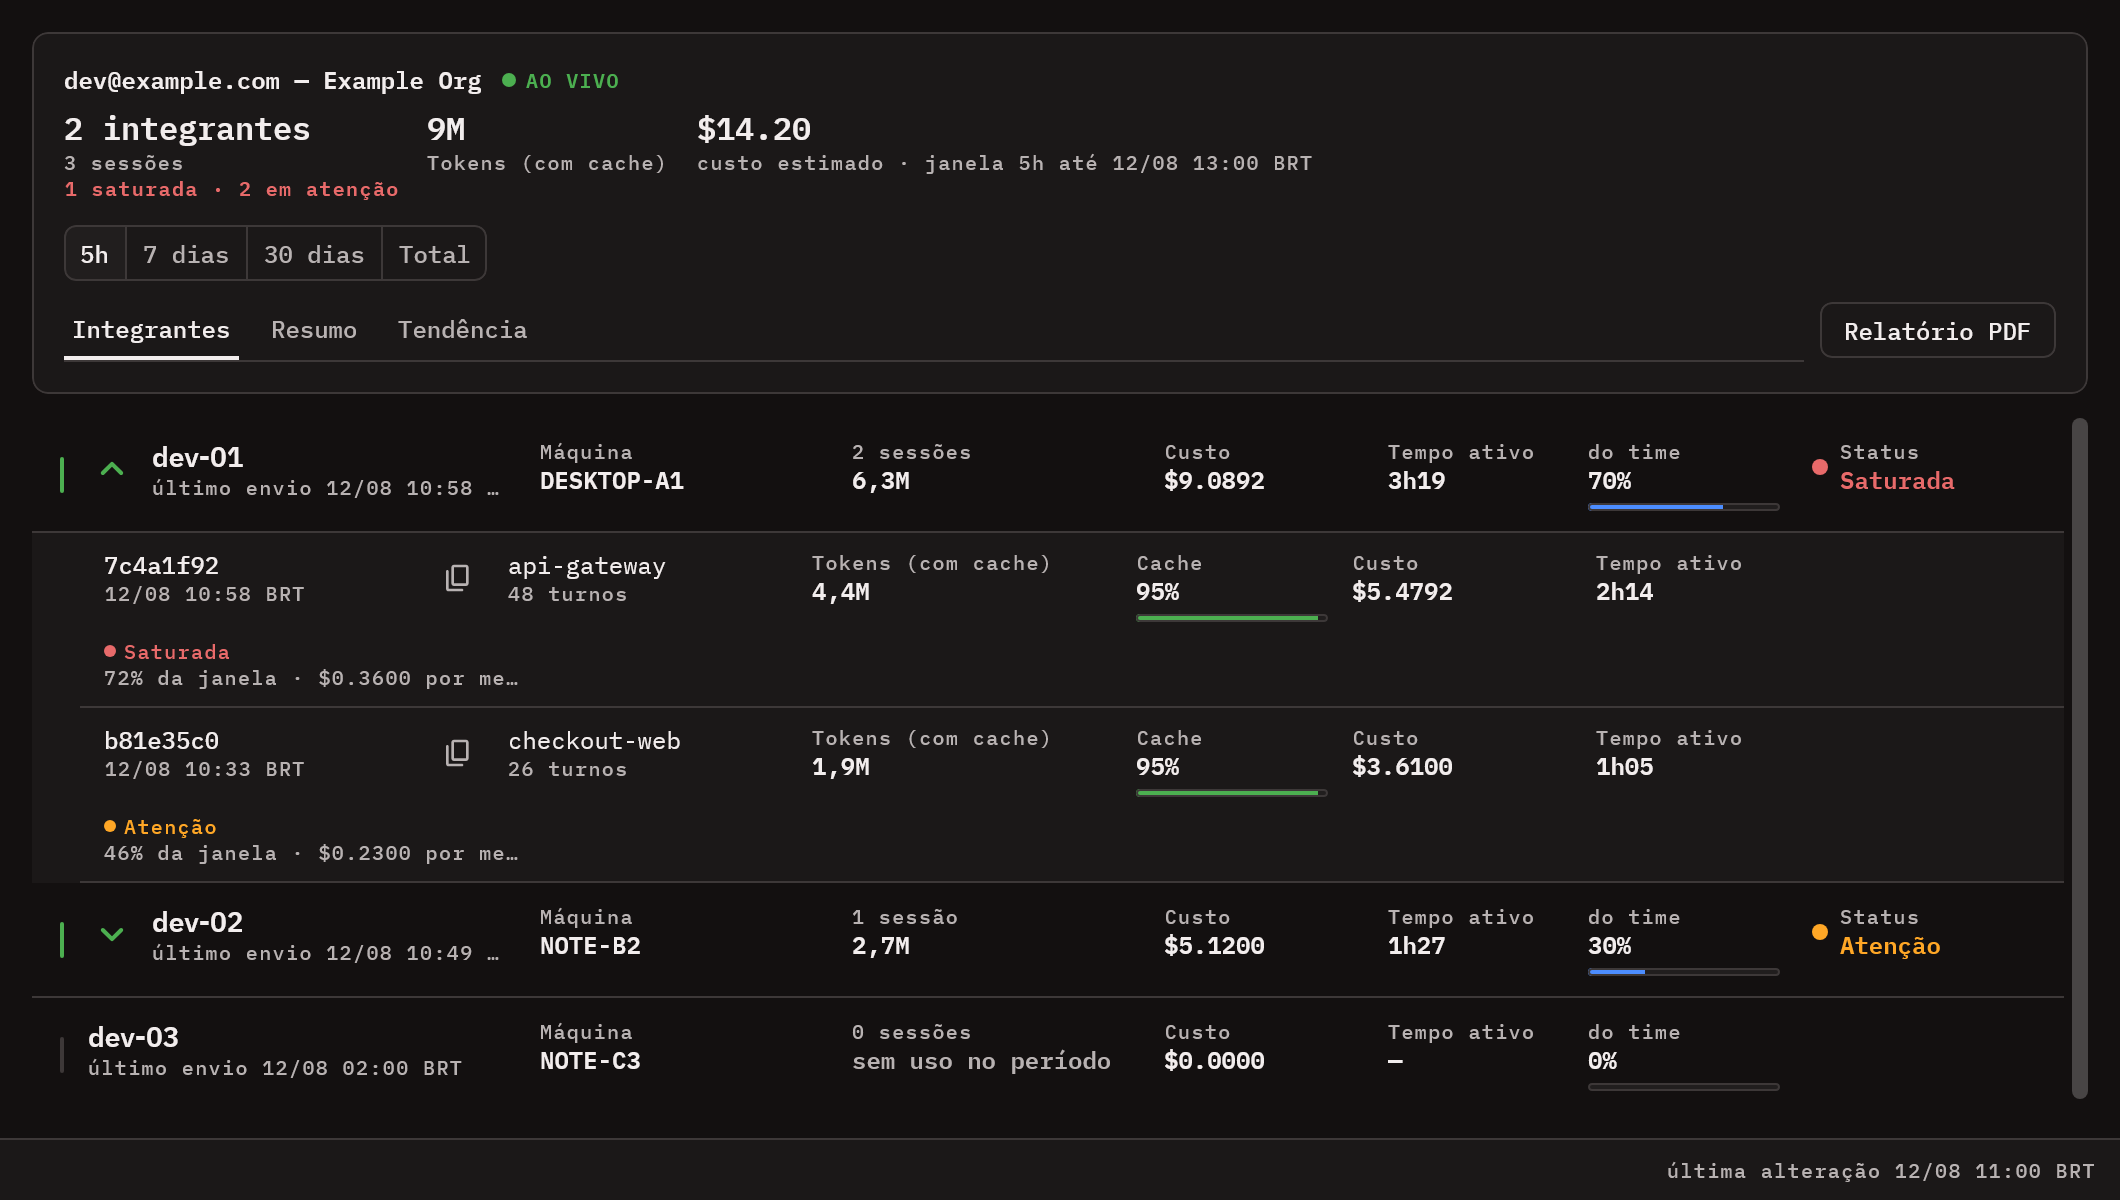
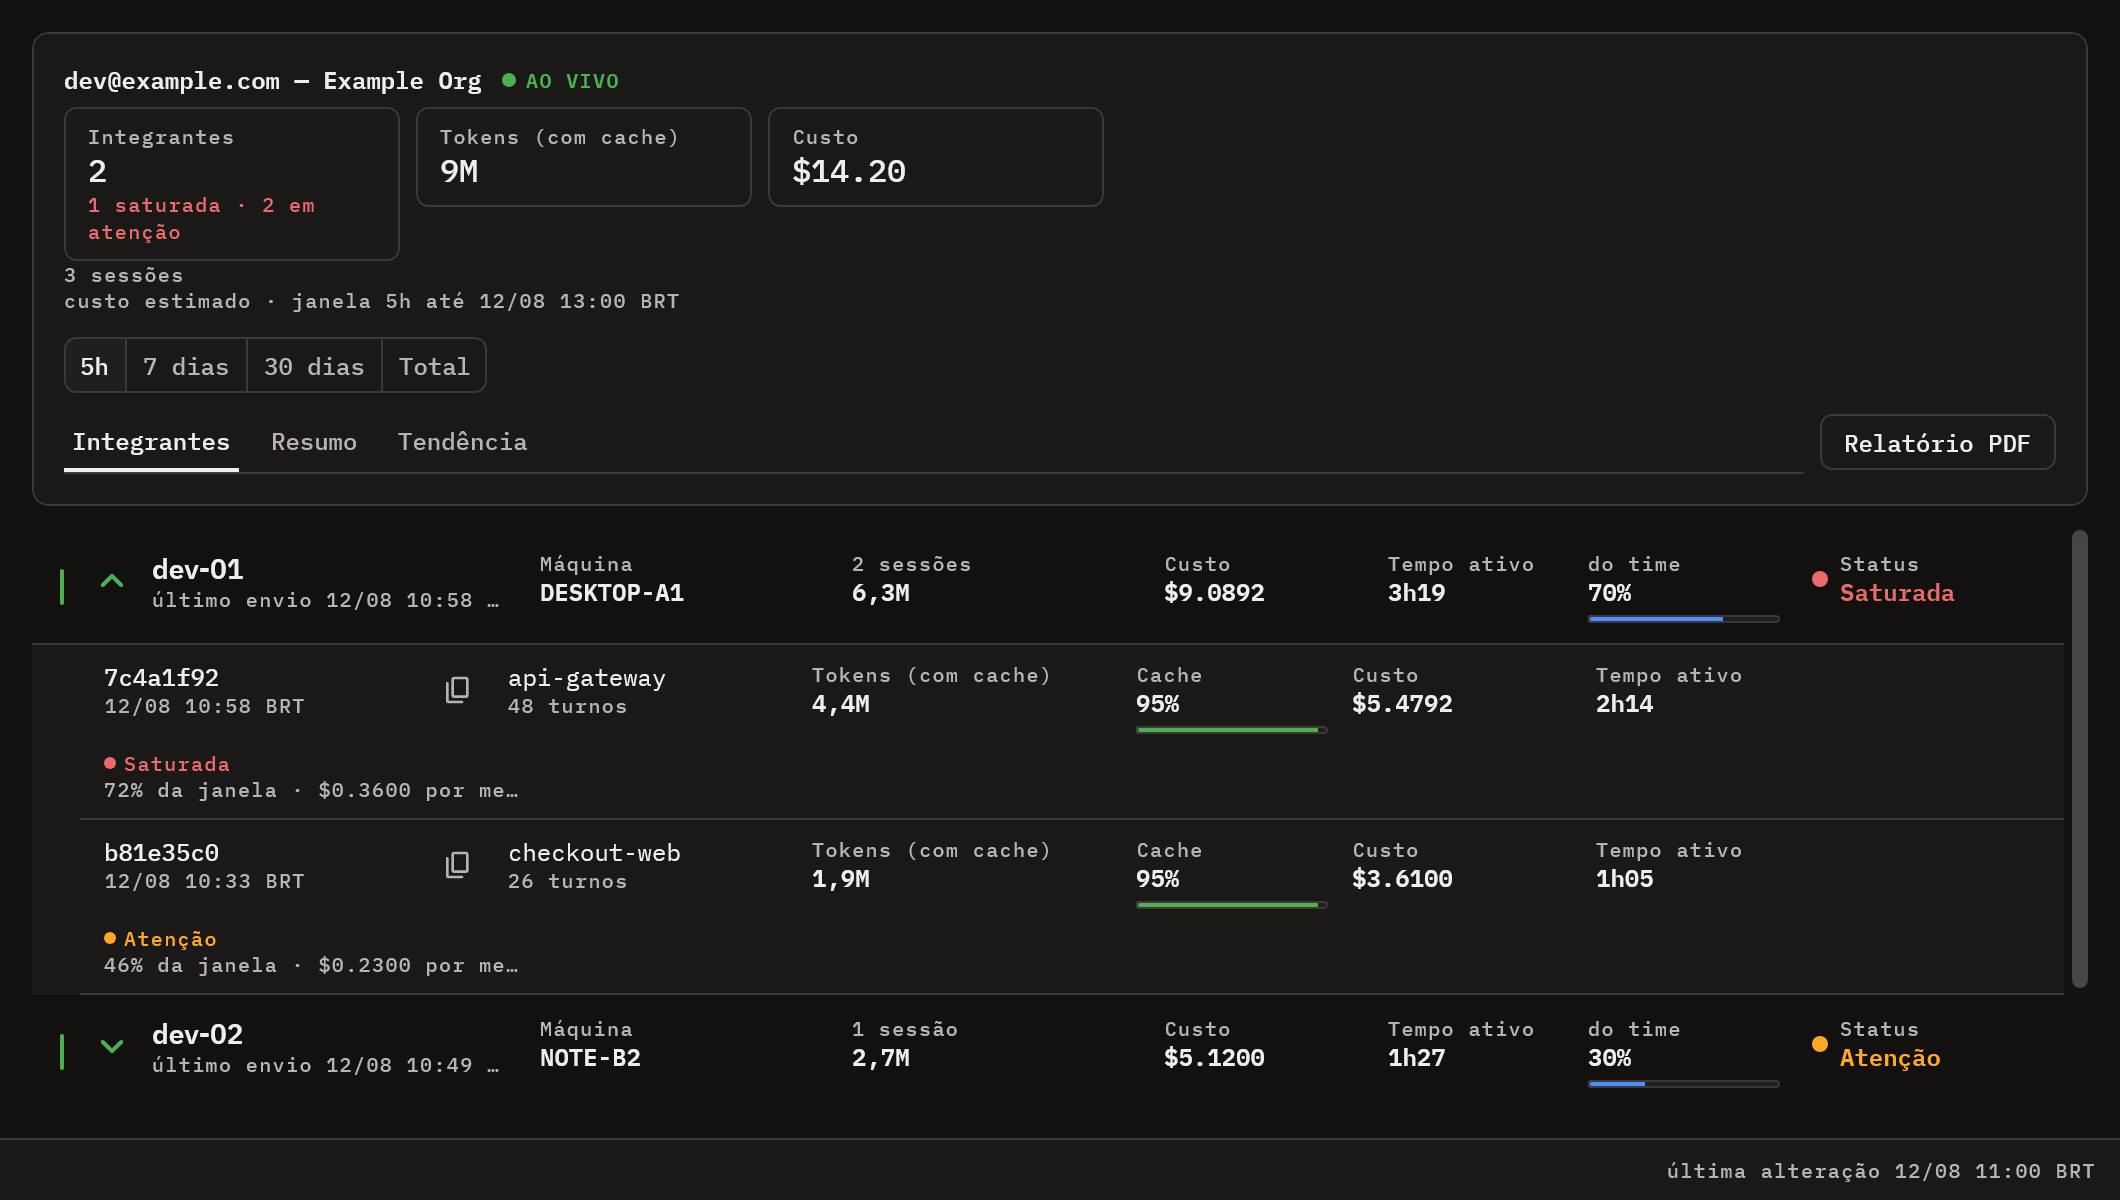
refactor(team): lay out the totals as metric blocks
Mesma passada do cabecalho da tela da maquina: tres pares valor/rotulo soltos
sobre o mesmo painel viram tres blocos com borda e largura igual, e as
qualificacoes longas — contagem de sessoes e janela do custo — saem para linhas
proprias abaixo.

Os tres testes que buscavam "1 integrante"/"3 integrantes" passam a ancorar no
bloco: o numero deixou de vir emendado a palavra, e nem "1" nem "Integrantes"
servem sozinhos numa tela que tem os dois em mais de um lugar. `memberCount`,
que emenda os dois, continua intacto onde e usado.

diff --git a/src/commonMain/kotlin/com/usagemonitor/presentation/ui/TeamUsageScreen.kt b/src/commonMain/kotlin/com/usagemonitor/presentation/ui/TeamUsageScreen.kt
@@ -59,6 +59,7 @@ import com.usagemonitor.presentation.ui.components.AppButtonTone
 import com.usagemonitor.presentation.ui.components.AppDataRow
 import com.usagemonitor.presentation.ui.components.AppDivider
 import com.usagemonitor.presentation.ui.components.AppIconButton
+import com.usagemonitor.presentation.ui.components.AppMetricBlock
 import com.usagemonitor.presentation.ui.components.AppProgressTrack
 import com.usagemonitor.presentation.ui.components.AppSegment
 import com.usagemonitor.presentation.ui.components.AppSegmentedControl
@@ -99,6 +100,15 @@ const val TEAM_TAB_TREND_TAG = "teamUsageTabTrend"
 internal const val TEAM_TREND_PANE_TAG = "teamUsageTrendPane"
 internal const val TEAM_TREND_SCROLLBAR_TAG = "teamUsageTrendScrollbar"
 const val TEAM_EXPORT_PDF_TAG = "teamUsageExportPdf"
+
+/**
+ * Bloco de total de integrantes do cabeçalho.
+ *
+ * O número deixou de vir emendado à palavra ("3 integrantes") e virou valor de
+ * um bloco com rótulo próprio, então não há mais um texto único que prove a
+ * contagem: a âncora é o bloco.
+ */
+const val TEAM_TOTAL_MEMBERS_BLOCK_TAG = "teamUsageTotalMembers"
 
 /** Compartilhada com o modal da máquina: as duas telas dão o mesmo aviso. */
 const val REFRESHING_NOTICE_TAG = "usageRefreshingNotice"
@@ -903,68 +913,63 @@ private fun TeamUsageHeader(
         }
         Spacer(modifier = Modifier.height(6.dp))
 
+        // Blocos de métrica de largura igual, como no modal da máquina: eram
+        // três pares valor/rótulo flutuando sobre o mesmo painel.
+        //
+        // Os totais são o mesmo tipo de coisa e ficam na mesma cor. O acento é
+        // identidade de fonte, não de valor: tokens em verde ao lado de custo em
+        // azul sugere duas categorias onde há duas medidas da mesma janela.
         FlowRow(
             modifier = Modifier.fillMaxWidth(),
-            horizontalArrangement = Arrangement.spacedBy(14.dp),
-            verticalArrangement = Arrangement.spacedBy(8.dp)
+            horizontalArrangement = Arrangement.spacedBy(AppSpacing.sm),
+            verticalArrangement = Arrangement.spacedBy(AppSpacing.sm)
         ) {
-            Column {
-                Text(
-                    text = TeamUsageLabels.memberCount(state.activeMemberCount, language),
-                    style = MaterialTheme.typography.titleMedium,
-                    fontWeight = FontWeight.SemiBold
-                )
-                Text(
-                    text = TeamUsageLabels.sessionCount(state.sessionCount, language),
-                    style = MaterialTheme.typography.labelSmall,
-                    color = MaterialTheme.colorScheme.onSurfaceVariant
-                )
+            AppMetricBlock(
+                label = TeamUsageLabels.columnMembers(language),
+                value = state.activeMemberCount.toString(),
                 // O veredito por sessão vive dois níveis abaixo, dentro de um
                 // integrante recolhido. Aqui ele aparece sem nenhum clique.
-                HealthTallyText(tally = state.healthTally, language = language)
-            }
+                footer = CliSessionsLabels.healthTally(state.healthTally, language),
+                footerColor = healthTallyColor(state.healthTally),
+                modifier = Modifier.width(METRIC_BLOCK_WIDTH).testTag(TEAM_TOTAL_MEMBERS_BLOCK_TAG)
+            )
 
-            // Os totais são o mesmo tipo de coisa e ficam na mesma cor — a mesma
-            // decisão que `CliSessionsHeader` já carrega. O acento é identidade
-            // de fonte, não de valor: tokens em verde ao lado de custo em azul
-            // sugere duas categorias onde há duas medidas da mesma janela.
-            Column {
-                Text(
-                    text = formatQuantity(state.totalTokens),
-                    style = MaterialTheme.typography.titleMedium,
-                    fontWeight = FontWeight.SemiBold,
-                    color = MaterialTheme.colorScheme.onSurface
-                )
-                Text(
-                    text = TeamUsageLabels.columnTokens(language),
-                    style = MaterialTheme.typography.labelSmall,
-                    color = MaterialTheme.colorScheme.onSurfaceVariant
-                )
-            }
+            AppMetricBlock(
+                label = TeamUsageLabels.columnTokens(language),
+                value = formatQuantity(state.totalTokens),
+                modifier = Modifier.width(METRIC_BLOCK_WIDTH)
+            )
 
-            Column {
-                Text(
-                    text = if (state.isTotalCostComplete) {
-                        formatMicrosUsdShort(state.totalCostMicros)
-                    } else {
-                        "${formatMicrosUsdShort(state.totalCostMicros)}+"
-                    },
-                    style = MaterialTheme.typography.titleMedium,
-                    fontWeight = FontWeight.SemiBold,
-                    color = MaterialTheme.colorScheme.onSurface
-                )
-                Text(
-                    text = TeamUsageLabels.estimatedTotalInRange(
-                        range = state.range,
-                        endsAt = state.rangeEndsAt,
-                        isAnchored = state.rangeAnchored,
-                        language = language
-                    ),
-                    style = MaterialTheme.typography.labelSmall,
-                    color = MaterialTheme.colorScheme.onSurfaceVariant
-                )
-            }
+            AppMetricBlock(
+                label = TeamUsageLabels.columnCost(language),
+                value = if (state.isTotalCostComplete) {
+                    formatMicrosUsdShort(state.totalCostMicros)
+                } else {
+                    "${formatMicrosUsdShort(state.totalCostMicros)}+"
+                },
+                modifier = Modifier.width(METRIC_BLOCK_WIDTH)
+            )
         }
+
+        // Fora dos blocos, pela mesma razão do modal da máquina: a janela do
+        // custo é uma frase, e dentro do bloco ela media três vezes a largura
+        // dele.
+        Text(
+            text = TeamUsageLabels.sessionCount(state.sessionCount, language),
+            style = MaterialTheme.typography.labelSmall,
+            color = MaterialTheme.colorScheme.onSurfaceVariant
+        )
+
+        Text(
+            text = TeamUsageLabels.estimatedTotalInRange(
+                range = state.range,
+                endsAt = state.rangeEndsAt,
+                isAnchored = state.rangeAnchored,
+                language = language
+            ),
+            style = MaterialTheme.typography.labelSmall,
+            color = MaterialTheme.colorScheme.onSurfaceVariant
+        )
 
         Spacer(modifier = Modifier.height(12.dp))
 

diff --git a/src/desktopTest/kotlin/com/usagemonitor/ui/TeamUsageScreenTest.kt b/src/desktopTest/kotlin/com/usagemonitor/ui/TeamUsageScreenTest.kt
@@ -13,6 +13,9 @@ import androidx.compose.ui.test.assertIsSelected
 import androidx.compose.ui.test.assertTextContains
 import androidx.compose.ui.test.onAllNodesWithTag
 import androidx.compose.ui.test.onAllNodesWithText
+import androidx.compose.ui.test.hasAnyDescendant
+import androidx.compose.ui.test.hasTestTag
+import androidx.compose.ui.test.hasText
 import androidx.compose.ui.test.onNodeWithTag
 import androidx.compose.ui.test.onNodeWithText
 import androidx.compose.ui.test.performClick
@@ -37,6 +40,7 @@ import com.usagemonitor.domain.usecase.ComputeCliSessionAnalyticsUseCase
 import com.usagemonitor.presentation.ui.TEAM_ACCOUNT_GROUP_TAG_PREFIX
 import com.usagemonitor.presentation.ui.TEAM_LIST_SCROLLBAR_TAG
 import com.usagemonitor.presentation.ui.TEAM_SLIDING_WINDOW_NOTICE_TAG
+import com.usagemonitor.presentation.ui.TEAM_TOTAL_MEMBERS_BLOCK_TAG
 import com.usagemonitor.presentation.ui.TEAM_MEMBER_HEALTH_TAG_PREFIX
 import com.usagemonitor.presentation.ui.TEAM_MEMBER_REMOVE_TAG_PREFIX
 import com.usagemonitor.presentation.ui.TEAM_MEMBER_ROW_TAG_PREFIX
@@ -82,7 +86,8 @@ class TeamUsageScreenTest {
             )
         )
 
-        onNodeWithText("1 integrante").assertIsDisplayed()
+        onNode(hasTestTag(TEAM_TOTAL_MEMBERS_BLOCK_TAG) and hasAnyDescendant(hasText("1")))
+            .assertIsDisplayed()
         onNodeWithText("$1.23").assertIsDisplayed()
         onNodeWithText("custo estimado · últimas 5h").assertIsDisplayed()
     }
@@ -229,7 +234,8 @@ class TeamUsageScreenTest {
         onNodeWithText("joao").assertIsDisplayed()
         onNodeWithText("sem uso no período").assertIsDisplayed()
         // Quem não usou não conta como integrante ativo do período.
-        onNodeWithText("1 integrante").assertIsDisplayed()
+        onNode(hasTestTag(TEAM_TOTAL_MEMBERS_BLOCK_TAG) and hasAnyDescendant(hasText("1")))
+            .assertIsDisplayed()
     }
 
     @Test
@@ -1205,7 +1211,8 @@ class TeamUsageScreenTest {
                 .assertTextContains("$0.1000")
 
             // O cabeçalho continua somando tudo: nenhuma faixa o substitui.
-            onNodeWithText("3 integrantes").assertIsDisplayed()
+            onNode(hasTestTag(TEAM_TOTAL_MEMBERS_BLOCK_TAG) and hasAnyDescendant(hasText("3")))
+                .assertIsDisplayed()
             onNodeWithText("4 sessões").assertIsDisplayed()
         }
 
